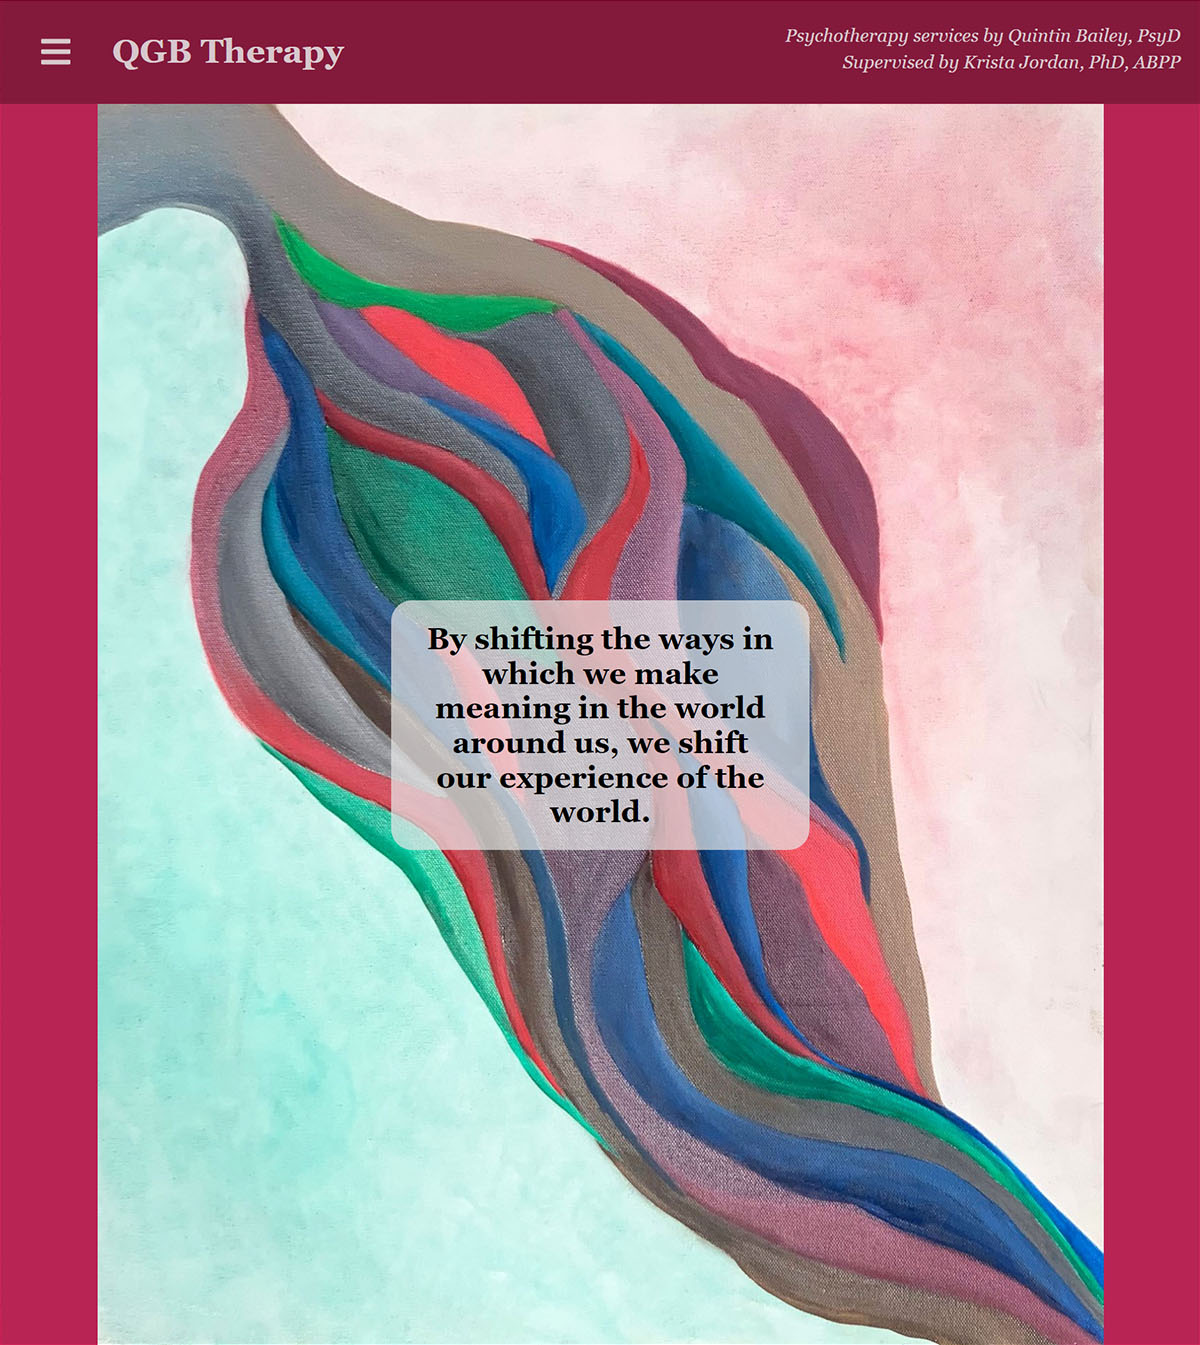
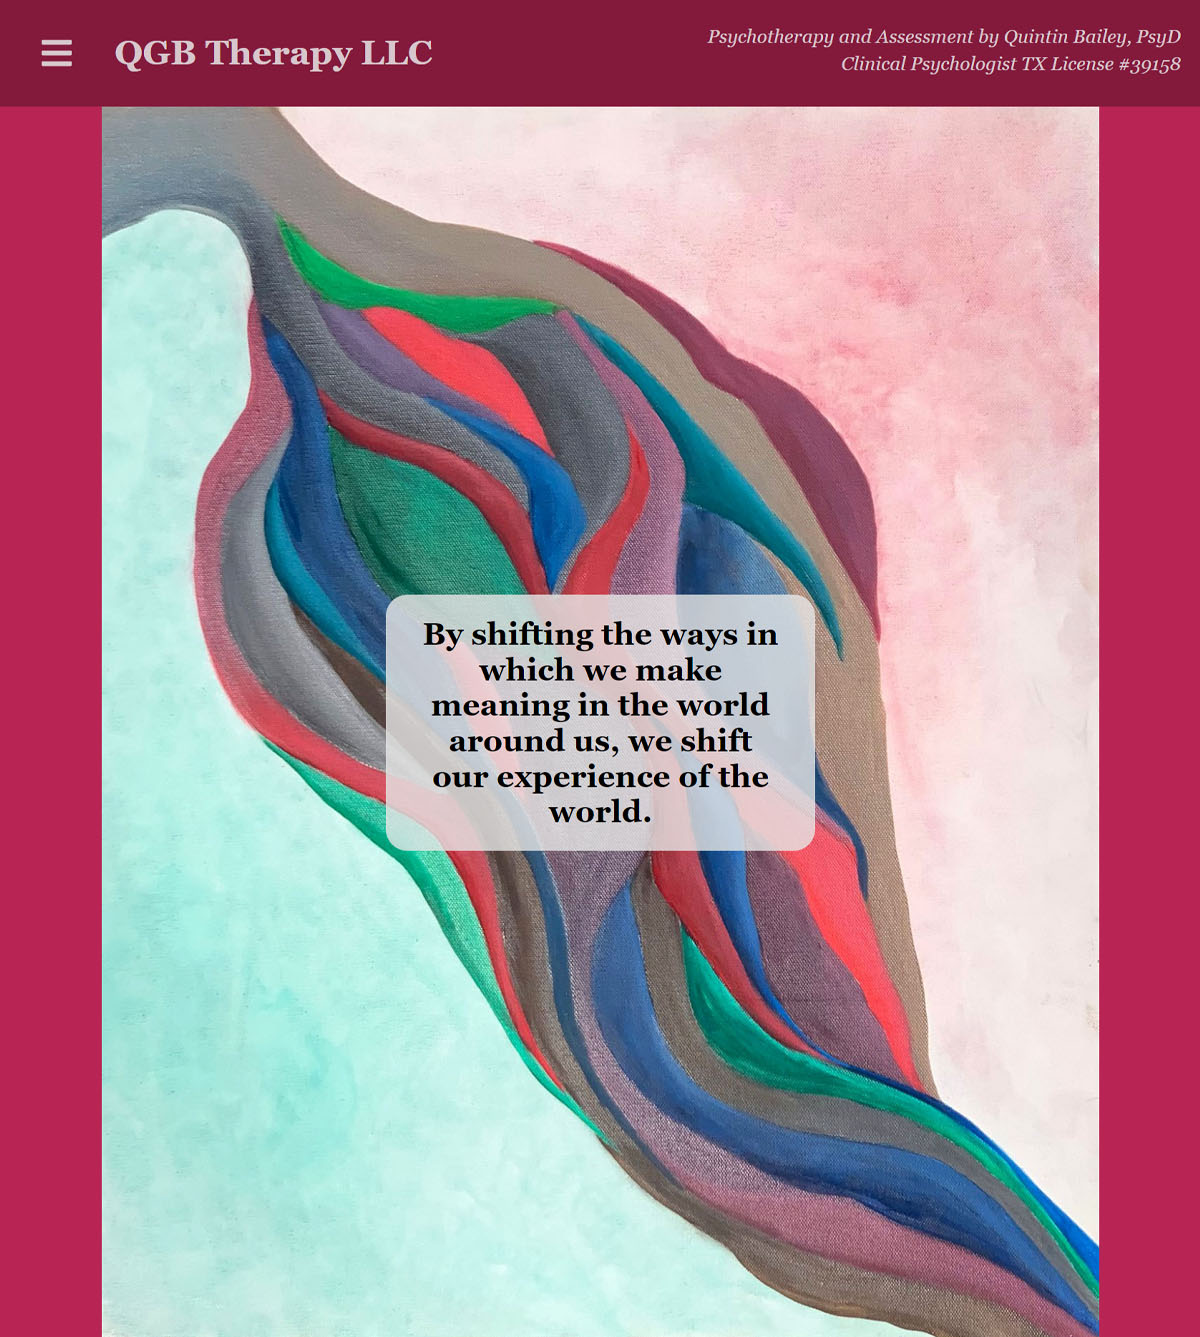
Removed unused assets. Linted code formatting.

diff --git a/src/pages/Clinical.js b/src/pages/Clinical.js
@@ -3,22 +3,20 @@ import Footer from "../components/Footer";
 export default function Clinical() {
 
 	return (
-		<main>
+		<>
 			<div className='fullContainer'>
-				<div className="pageContainer">
+				<main className="pageContainer">
 					<h3>Clinical Services</h3>
 					<h4>Individual Therapy</h4>
-					<p style={{ textIndent: '40px' }}>I am currently offering in-person psychotherapy services for adults in the Austin, TX Area, and telehealth services for trans and gender non-conforming adults throughout Texas. My hours are 11am-7pm Monday-Friday.
-					</p>
+					<p style={{ textIndent: '40px' }}>I am currently offering in-person psychotherapy services for adults in the Austin, TX Area, and telehealth services for trans and gender non-conforming adults throughout Texas. My hours are 11am-7pm Monday-Friday.</p>
+					
 					<h4>Approach</h4>
-					<p style={{ textIndent: '40px' }}>My primary theoretical orientation is psychodynamic, which means I believe in the unconscious and in the importance of being curious about the unique universe of every patient. Having worked primarily with folks with personality and dissociative disorders, I have great empathy for the suffering from which these styles of relating to the world developed to survive. Every treatment serves as a reminder to me that it is a privilege to sit with another and to witness their process of transformation. By connecting with their values and becoming grounded in the present I have seen folks from a variety of diverse backgrounds and identity intersections increase their capacity to feel, understand, and integrate a range of emotional experiences and become curious about themselves and others.
-					</p>
+					<p style={{ textIndent: '40px' }}>My primary theoretical orientation is psychodynamic, which means I believe in the unconscious and in the importance of being curious about the unique universe of every patient. Having worked primarily with folks with personality and dissociative disorders, I have great empathy for the suffering from which these styles of relating to the world developed to survive. Every treatment serves as a reminder to me that it is a privilege to sit with another and to witness their process of transformation. By connecting with their values and becoming grounded in the present I have seen folks from a variety of diverse backgrounds and identity intersections increase their capacity to feel, understand, and integrate a range of emotional experiences and become curious about themselves and others.</p>
 					<br />
-					<p style={{ textIndent: '40px' }}>This includes being curious about the therapeutic relationship we will build together. Feeling you can bring your full self(s) into the therapy room is of utmost importance. This means feeling seen and understood in the often uncomfortable or challenging process of change. I offer a free 30-minute consultation to collaboratively decide if we are a good match.
-					</p>
+					<p style={{ textIndent: '40px' }}>This includes being curious about the therapeutic relationship we will build together. Feeling you can bring your full self(s) into the therapy room is of utmost importance. This means feeling seen and understood in the often uncomfortable or challenging process of change. I offer a free 30-minute consultation to collaboratively decide if we are a good match.</p>
+					
 					<h4>Experience</h4>
-					<p style={{ textIndent: '40px' }}>During grad school, Dr. Bailey worked at Portia Bell Hume in the partial hospitalization program providing interpersonal process groups to adults with chronic mental health struggles and systemic stressors. As well, he provided long-term outpatient therapy to individuals with personality and dissociative disorders through the Pacific Center for Human Growth, the oldest LGBTQIA+ center in the Bay Area. Dr. Bailey completed his predoctoral internship at The University of Texas at Austin Counseling and Mental Health Center where he specialized in working within the transgender and gender non-conforming community and those experiencing multiplicity or plurality. He then completed a post-doctoral fellowship supervised by Krista Jordan, PhD.
-					</p>
+					<p style={{ textIndent: '40px' }}>During grad school, Dr. Bailey worked at Portia Bell Hume in the partial hospitalization program providing interpersonal process groups to adults with chronic mental health struggles and systemic stressors. As well, he provided long-term outpatient therapy to individuals with personality and dissociative disorders through the Pacific Center for Human Growth, the oldest LGBTQIA+ center in the Bay Area. Dr. Bailey completed his predoctoral internship at The University of Texas at Austin Counseling and Mental Health Center where he specialized in working within the transgender and gender non-conforming community and those experiencing multiplicity or plurality. He then completed a post-doctoral fellowship supervised by Krista Jordan, PhD.</p>
 					<h5>Specializations </h5>
 					<div className="flex flex-wrap f-arnd">
 						<ul>
@@ -40,11 +38,11 @@ export default function Clinical() {
 						</ul>
 					</div>
 					<h5>Fees </h5>
-					<p style={{ textIndent: '40px' }}>Psychotherapy sessions are $175 per 50-minute hour. Assessments are $500 flat fee. I am an out of network provider. Sliding scale is available for BIPOC and Trans folks.
-					</p>
-				</div>
+					<p style={{ textIndent: '40px' }}>Psychotherapy sessions are $175 per 50-minute hour. Assessments are $500 flat fee. I am an out of network provider. Sliding scale is available for BIPOC and Trans folks.</p>
+				</main>
+				
 				<Footer />
 			</div>
-		</main>
+		</>
 	);
 }

diff --git a/src/pages/Consultation.js b/src/pages/Consultation.js
@@ -3,38 +3,33 @@ import Footer from "../components/Footer";
 export default function Consultation() {
 
 	return (
-		<main>
+		<>
 			<div className='fullContainer'>
-				<div className="pageContainer">
+				<main className="pageContainer">
 					<h3>Trans Inclusive Clinic Consultation</h3>
-					<p style={{ textIndent: '40px' }}>Providing ethical clinical care means providing trans inclusive services. From the moment of first contact with a clinic or provider to eventual treatment termination, every patient deserves to be seen and understood for their true self. I provide consultation services and trainings on trans inclusive clinical care. This includes reviewing paperwork, documentation, and other clinic practices and trainings on trans inclusive clinical interviews.
-					</p>
+					<p style={{ textIndent: '40px' }}>Providing ethical clinical care means providing trans inclusive services. From the moment of first contact with a clinic or provider to eventual treatment termination, every patient deserves to be seen and understood for their true self. I provide consultation services and trainings on trans inclusive clinical care. This includes reviewing paperwork, documentation, and other clinic practices and trainings on trans inclusive clinical interviews.</p>
 					<br />
-					<p style={{ textIndent: '40px' }}>As an intern at The Pacific Center for Human Growth, the oldest LGBTQIA+ Center in the Bay Area, I worked closely with administrative staff to overhaul the phone screen and intake process for both efficiency and trans inclusion. This included developing language for clinicians to talk with patients about gender while acknowledging current limitations of documentation requirements within healthcare systems in order to prevent the burden of those limitations from being passed onto the patient.
-					</p>
+					<p style={{ textIndent: '40px' }}>As an intern at The Pacific Center for Human Growth, the oldest LGBTQIA+ Center in the Bay Area, I worked closely with administrative staff to overhaul the phone screen and intake process for both efficiency and trans inclusion. This included developing language for clinicians to talk with patients about gender while acknowledging current limitations of documentation requirements within healthcare systems in order to prevent the burden of those limitations from being passed onto the patient.</p>
+					
 					<h4>Offerings</h4>
 					<h5>Trainings and Lectures </h5>
-					<p style={{ textIndent: '40px' }}>The following trainings and lectures are available in-person or via zoom.
-					</p>
+					<p style={{ textIndent: '40px' }}>The following trainings and lectures are available in-person or via zoom.</p>
 					<h5>The Shape of Gender </h5>
-					<p style={{ textIndent: '40px' }}>This presentation invites clinicians to think critically about the concept of gender. Grounded in trans theory, integrated with narrative therapy techniques, it provides a framework to approach exploration of gender for all patients.
-					</p>
+					<p style={{ textIndent: '40px' }}>This presentation invites clinicians to think critically about the concept of gender. Grounded in trans theory, integrated with narrative therapy techniques, it provides a framework to approach exploration of gender for all patients.</p>
 					<h5>Trans Inclusive Clinical Interviewing </h5>
-					<p style={{ textIndent: '40px' }}>This training provides an overview of trans inclusive clinical interviewing and documentation. It highlights current limitations within healthcare systems and how to navigate those limitations within a treatment context.
-					</p>
+					<p style={{ textIndent: '40px' }}>This training provides an overview of trans inclusive clinical interviewing and documentation. It highlights current limitations within healthcare systems and how to navigate those limitations within a treatment context.</p>
+					
 					<h4>Additional Services</h4>
 					<h5>Review of Documentation and Clinic Practices </h5>
-					<p style={{ textIndent: '40px' }}>This service includes reviewing all paperwork, forms, and other documentation for trans inclusive language, as well as any other clinic services or practices you would like reviewed.
-					</p>
+					<p style={{ textIndent: '40px' }}>This service includes reviewing all paperwork, forms, and other documentation for trans inclusive language, as well as any other clinic services or practices you would like reviewed.</p>
 					<h5>Clinic Consultation </h5>
-					<p style={{ textIndent: '40px' }}>The most extensive offering, this includes an assessment of current clinic practices and the recommended trainings based on that assessment. This package can be fully customized to the needs of the clinic or practice.
-					</p>
+					<p style={{ textIndent: '40px' }}>The most extensive offering, this includes an assessment of current clinic practices and the recommended trainings based on that assessment. This package can be fully customized to the needs of the clinic or practice.</p>
 					<h5>Rates and Fees </h5>
-					<p style={{ textIndent: '40px' }}>Rates and fees for trainings are determined by the length of training(s) and depth of review of clinic practices requested. The base rate is $250 per hour for trainings.
-					</p>
-				</div>
+					<p style={{ textIndent: '40px' }}>Rates and fees for trainings are determined by the length of training(s) and depth of review of clinic practices requested. The base rate is $250 per hour for trainings.</p>
+				</main>
+
 				<Footer />
 			</div>
-		</main>
+		</>
 	);
 }

diff --git a/src/pages/About.js b/src/pages/About.js
@@ -3,25 +3,32 @@ import Footer from "../components/Footer";
 export default function About() {
 
 	return (
-		<main>
+		<>
 			<div className='fullContainer'>
-				<div className="pageContainer">
+				<main className="pageContainer">
 					<h3>About Dr. Bailey</h3>
 					<div className="flex flex-wrap-mobile f-align-top">
-						<img className="profile-pic" src={`${process.env.PUBLIC_URL}/assets/qgb.jpg`} alt="Dr. Quintin Bailey" />
-						<img className="profile-pic profile-pic-small" src={`${process.env.PUBLIC_URL}/assets/qgb-s.jpg`} alt="Dr. Quintin Bailey" />
+						<img 
+							className="profile-pic" 
+							src={`${process.env.PUBLIC_URL}/assets/qgb.jpg`} 
+							alt="Dr. Quintin Bailey" 
+						/>
+						<img 
+							className="profile-pic profile-pic-small" 
+							src={`${process.env.PUBLIC_URL}/assets/qgb-s.jpg`} 
+							alt="Dr. Quintin Bailey" 
+						/>
 						<div className="break-2"></div>
 						<div className="about-text-container">
-							<p className="about-p" style={{ textIndent: '40px' }}>I value authenticity and a continued commitment to self-reflection and personal growth. I am comforted to know that the only constant is change, that the act of just sitting and being with another person has profound meaning and potential for healing. I have experienced the power of being witnessed, by others and by myself, in my own personal journey with meditation and spirituality. It is with this mindful reflection that I approach everything I do. It is my hope that this authentic enthusiasm and curiosity can spark in others curiosity about themselves, how they have come to be, and where they would like to go.
-							</p>
+							<p className="about-p" style={{ textIndent: '40px' }}>I value authenticity and a continued commitment to self-reflection and personal growth. I am comforted to know that the only constant is change, that the act of just sitting and being with another person has profound meaning and potential for healing. I have experienced the power of being witnessed, by others and by myself, in my own personal journey with meditation and spirituality. It is with this mindful reflection that I approach everything I do. It is my hope that this authentic enthusiasm and curiosity can spark in others curiosity about themselves, how they have come to be, and where they would like to go.</p>
 							<br />
-							<p className="about-p" style={{ textIndent: '40px' }}>Dr. Bailey attended Mills College in Oakland, CA where he graduated with a B.A. in Psychology and Queer Studies. He then earned his PsyD in Clinical Psychology from the Wright Institute in Berkeley, CA. His undergraduate thesis proposed a theoretical extension of research on racism as a chronic stressor, and its subsequent impact on physical and psychological wellbeing, to understand transphobia as chronic stress. Dr. Bailey’s dissertation explored the importance of the therapeutic alliance and the treatment frame when working with patients experiencing psychosis. Throughout his training he specialized in providing individual and group psychodynamic psychotherapy to adults diagnosed with personality and dissociative disorders, with a particular interest in Borderline Personality Disorder and Dissociative Identity Disorder.
-							</p>
+							<p className="about-p" style={{ textIndent: '40px' }}>Dr. Bailey attended Mills College in Oakland, CA where he graduated with a B.A. in Psychology and Queer Studies. He then earned his PsyD in Clinical Psychology from the Wright Institute in Berkeley, CA. His undergraduate thesis proposed a theoretical extension of research on racism as a chronic stressor, and its subsequent impact on physical and psychological wellbeing, to understand transphobia as chronic stress. Dr. Bailey’s dissertation explored the importance of the therapeutic alliance and the treatment frame when working with patients experiencing psychosis. Throughout his training he specialized in providing individual and group psychodynamic psychotherapy to adults diagnosed with personality and dissociative disorders, with a particular interest in Borderline Personality Disorder and Dissociative Identity Disorder.</p>
 						</div>
 					</div>
-				</div>
+				</main>
+				
 				<Footer />
 			</div>
-		</main>
+		</>
 	);
 }

diff --git a/src/components/Footer.js b/src/components/Footer.js
@@ -3,11 +3,27 @@ export default function Footer() {
     return (
         <footer className="flex f-btw f-align-c">
             <p className="copyright">© 2021</p>
+            
             {/* Professional verification provided by Psychology Today */}
-            <a href="https://www.psychologytoday.com/profile/906011" className="sx-verified-seal" target="_blank" rel="noopener noreferrer">
-                <img className="verified-pic" src={`${process.env.PUBLIC_URL}/assets/pt.png`} alt="Verified Psychology Today" />
+            <a 
+                href="https://www.psychologytoday.com/profile/906011" 
+                className="sx-verified-seal" 
+                target="_blank" 
+                rel="noopener noreferrer"
+            >
+                <img 
+                    className="verified-pic" 
+                    src={`${process.env.PUBLIC_URL}/assets/pt.png`} 
+                    alt="Verified Psychology Today" 
+                />
             </a>
[1 lines of base64/hex data omitted]
+            <script 
+                type="text/javascript" 
+                src="https://member.psychologytoday.com/verified-seal.js" 
+                data-badge="14" 
+                data-id="906011" 
[1 lines of base64/hex data omitted]
+            />
             {/* End Verification */}
         </footer>
     );

diff --git a/src/pages/Covid.js b/src/pages/Covid.js
@@ -3,12 +3,11 @@ import Footer from "../components/Footer";
 export default function Covid() {
 
 	return (
-		<main>
+		<>
 			<div className='fullContainer'>
-				<div className="pageContainer">
+				<main className="pageContainer">
 					<h3>COVID-19</h3>
-					<p style={{ textIndent: '40px' }}>With the widespread availability of COVID-19 vaccinations, I am offering exclusively in-person services for new patients.
-					</p>
+					<p style={{ textIndent: '40px' }}>With the widespread availability of COVID-19 vaccinations, I am offering exclusively in-person services for new patients.</p>
 					<h4>The following precautions are being taken for in-office sessions</h4>
 					<ul>
 						<li>Patients experiencing symptoms of COVID-19, patients who have tested positive for COVID-19 in the past two weeks, and patients that have been in contact with another person who has tested positive for COVID-19 will be given the option to do telephone sessions until it is safe to resume in-person services.</li>
@@ -17,9 +16,10 @@ export default function Covid() {
 						<li>Hand sanitizer is available in the office space.</li>
 						<li>As of December 2021, I am fully vaccinated for COVID-19 including a booster and encourage all who can access vaccinations to do so.</li>
 					</ul>
-				</div>
+				</main>
+
 				<Footer />
 			</div>
-		</main>
+		</>
 	);
 }

diff --git a/src/pages/Contact.js b/src/pages/Contact.js
@@ -3,16 +3,13 @@ import Footer from "../components/Footer";
 export default function Contact() {
 
 	return (
-		<main>
+		<>
 			<div className='fullContainer'>
-				<div className="pageContainer">
+				<main className="pageContainer">
 					<h3>Contact Dr. Bailey</h3>
-					<p style={{ textIndent: '40px' }}>To schedule a free 30-minute consultation or to inquire about services, please contact me via phone, email, or the contact form below. I do my best to return messages within 24-hours.
-					</p>
+					<p style={{ textIndent: '40px' }}>To schedule a free 30-minute consultation or to inquire about services, please contact me via phone, email, or the contact form below. I do my best to return messages within 24-hours.</p>
 					<h4>Phone: 737-900-3680</h4>
-					{/* <img className="contact-img" src={`${process.env.PUBLIC_URL}/assets/phone.png`} alt="Dr. Quintin Bailey phone number" /> */}
 					<h4>Email: qgbtherapy@gmail.com</h4>
-					{/* <img className="contact-img" src={`${process.env.PUBLIC_URL}/assets/email.png`} alt="Dr. Quintin Bailey email" /> */}
 					<div className="c-full">
 						<iframe 
 							title="contact" 
@@ -26,9 +23,10 @@ export default function Contact() {
 							Loading…
 						</iframe>
 					</div>
-				</div>
+				</main>
+
 				<Footer />
 			</div>
-		</main>
+		</>
 	);
 }

diff --git a/src/components/Header.js b/src/components/Header.js
@@ -70,6 +70,7 @@ export default function Header() {
 				>
 					<FontAwesomeIcon icon={faBars} size="2x" />
 				</div>
+				
 				<h1>QGB Therapy LLC</h1>
 				<div className="break"></div>
 				<div className="header-subtext">

diff --git a/src/pages/Pages.js b/src/pages/Pages.js
@@ -13,6 +13,7 @@ export default function Pages() {
 	return (
 		<>
 			<Header />
+			
 			<Routes>
 				<Route exact path='/about' element={<About />} />
 				<Route exact path='/clinical-services' element={<Clinical />} />
